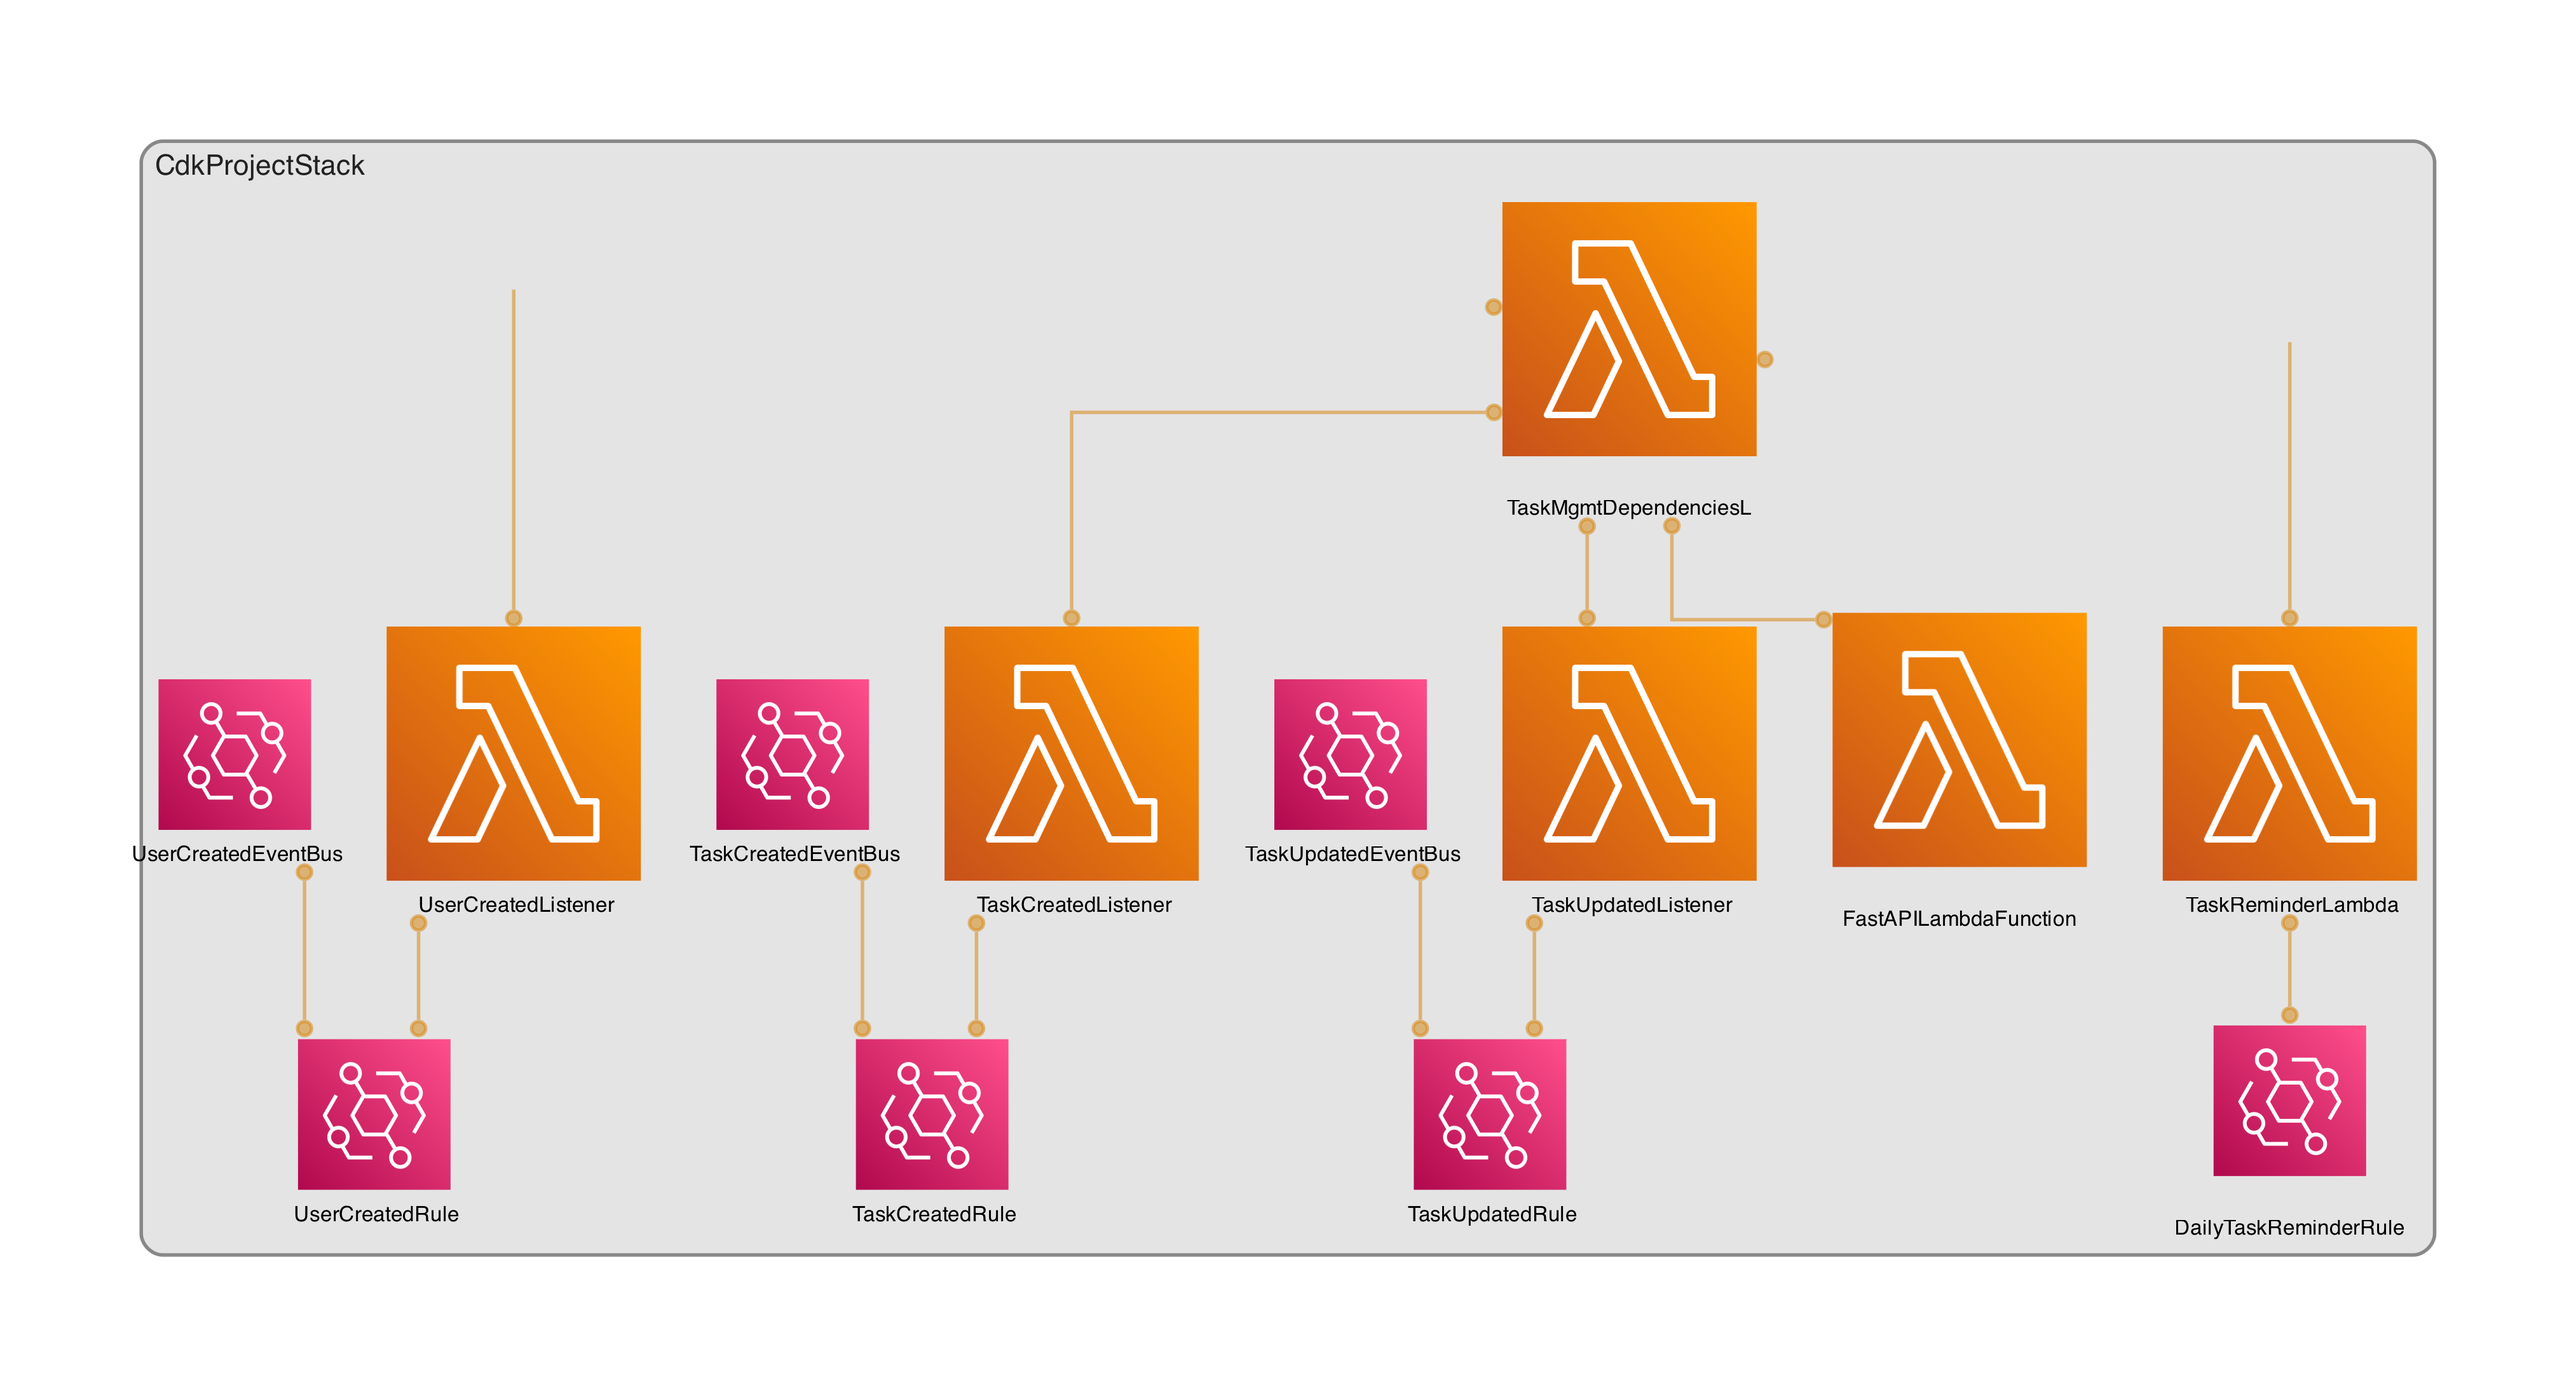
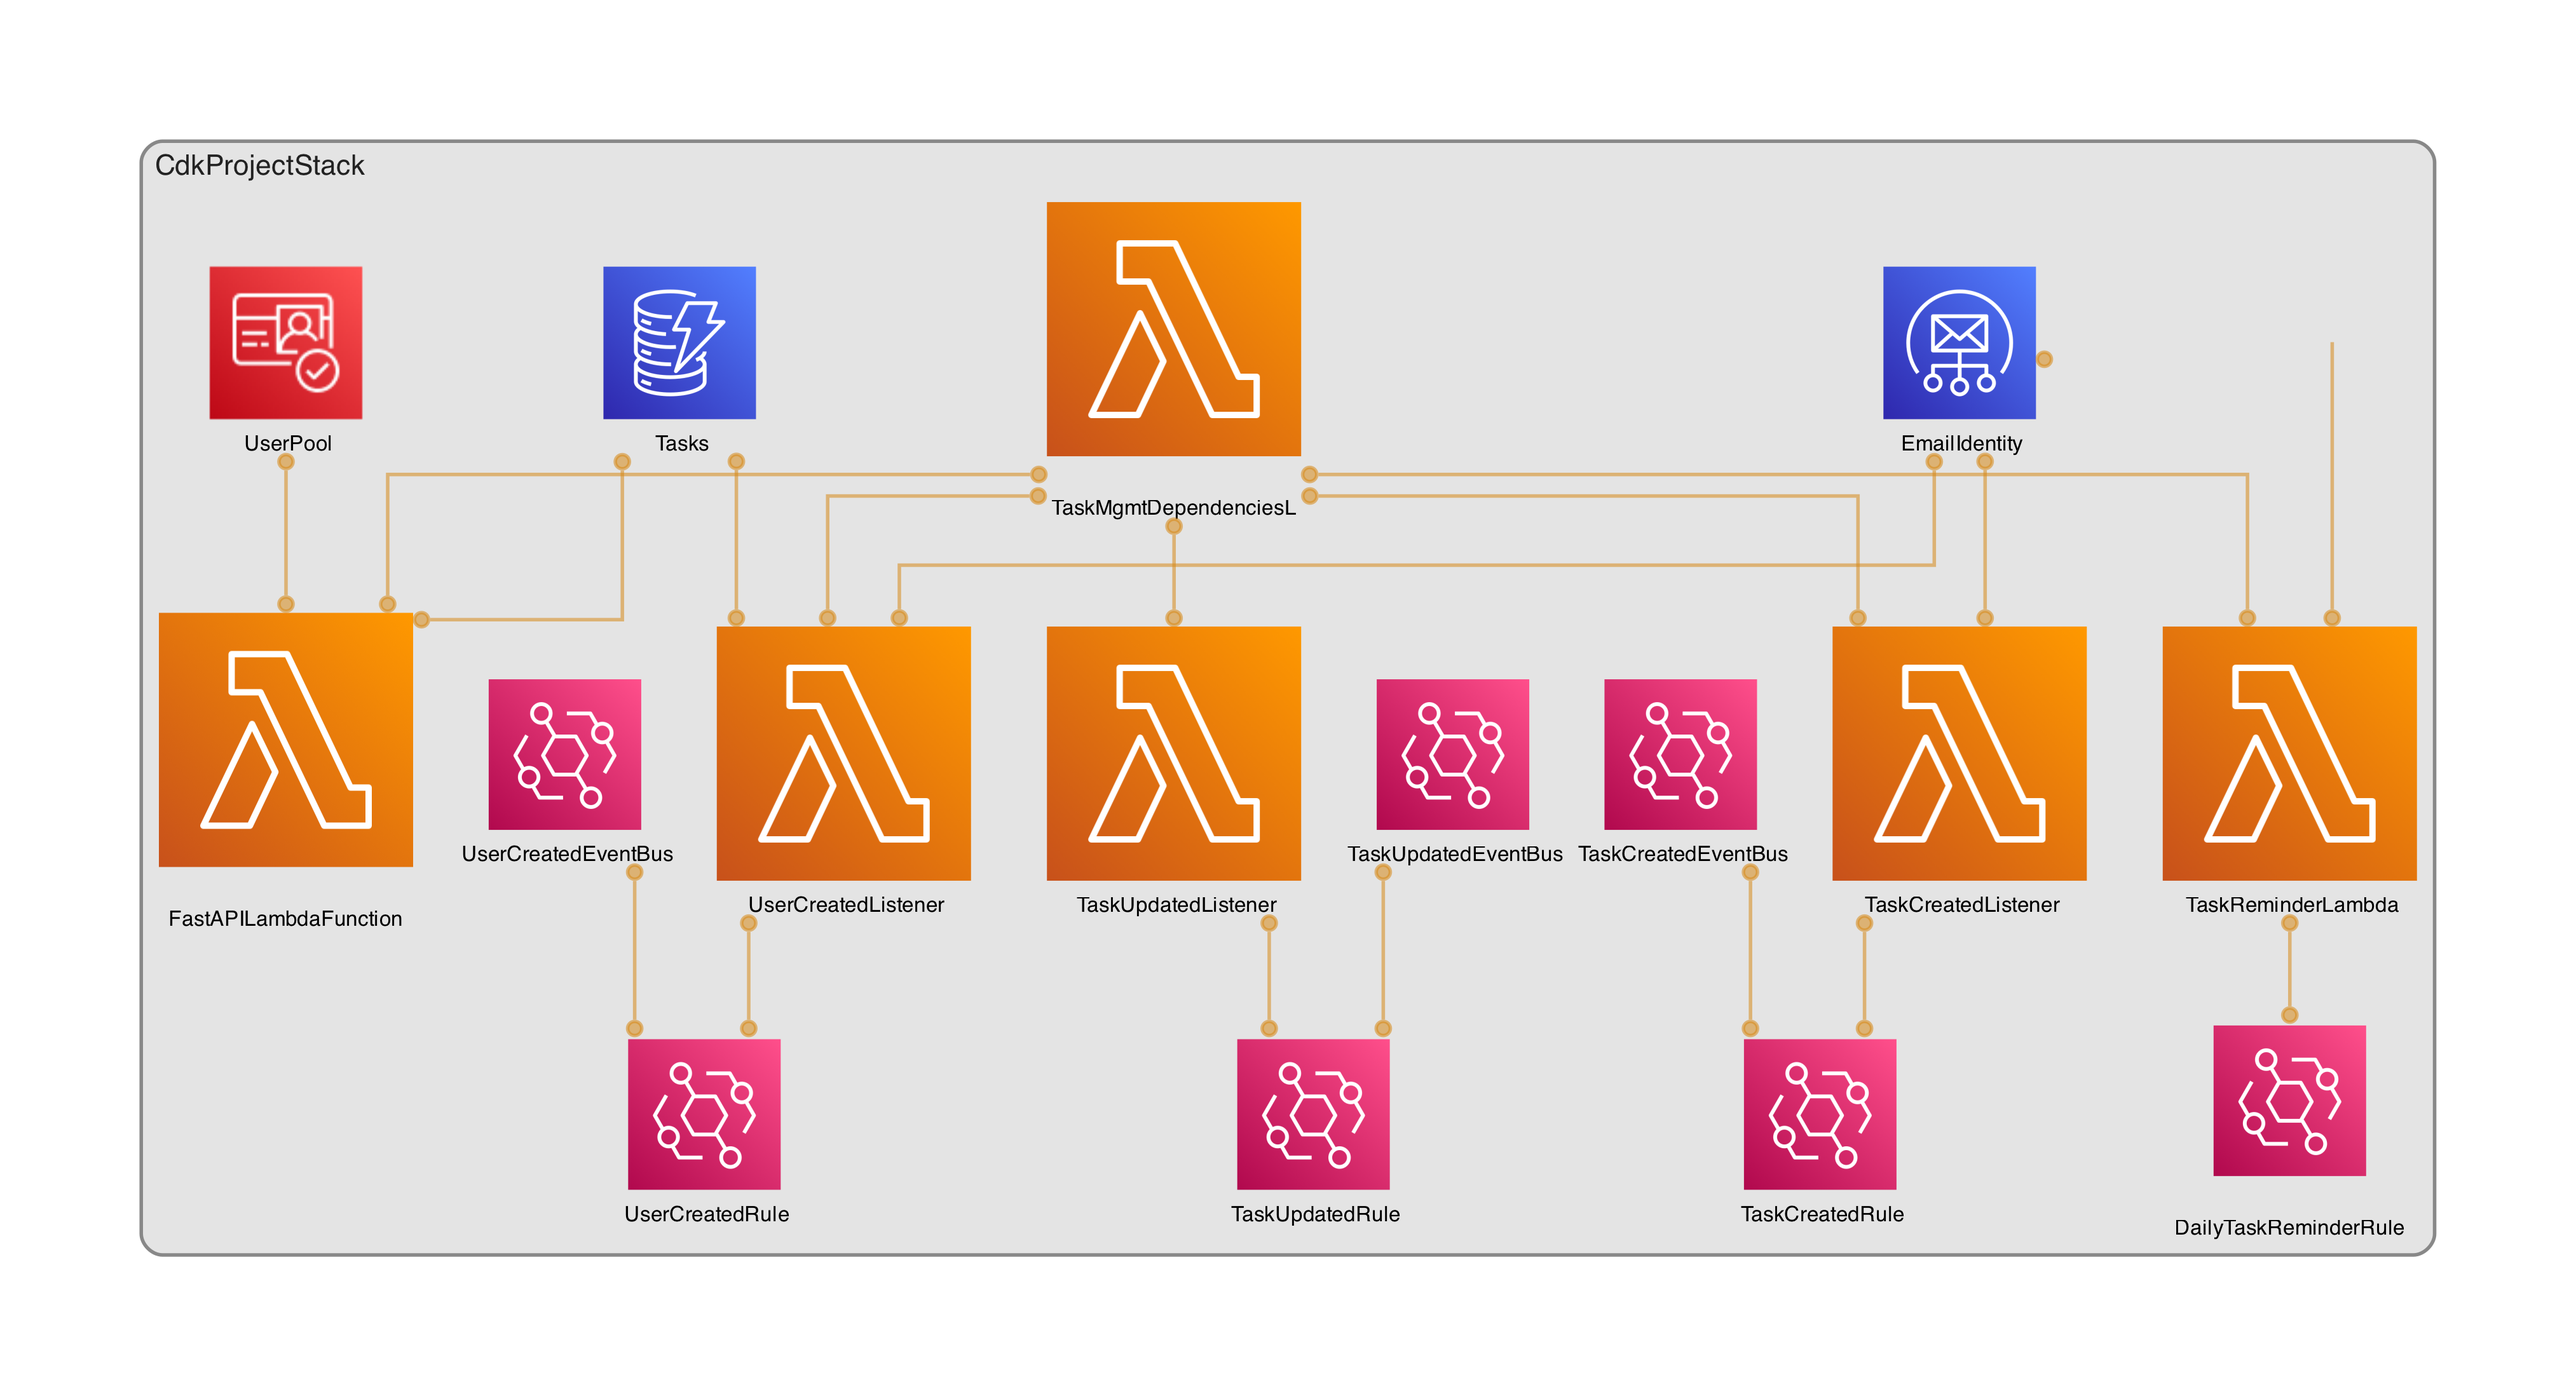
updated CDK successfully

diff --git a/cdk-project/cdk_project/cdk_project_stack copy.py b/cdk-project/cdk_project/cdk_project_stack copy.py
@@ -1,0 +1,188 @@
+from aws_cdk import (
+    Stack,
+    aws_lambda as _lambda,
+    aws_events as aws_events,
+    aws_events_targets as aws_events_targets,
+    aws_iam as aws_iam,
+    aws_dynamodb as aws_dynamodb,
+    aws_cognito as aws_cognito,
+    aws_ses as aws_ses,
+)
+from constructs import Construct
+from utils import load_env
+
+
+class CdkProjectStack(Stack):
+    def __init__(self, scope: Construct, construct_id: str, **kwargs) -> None:
+        super().__init__(scope, construct_id, **kwargs)
+
+        # Load environment variables
+        project_environment = load_env()
+
+        # Lambda Layer
+        self.layer = _lambda.LayerVersion(
+            self,
+            "TaskMgmtDependenciesLayer",
+            code=_lambda.Code.from_asset("../lambda_layer/lambda_layer.zip"),
+            compatible_runtimes=[_lambda.Runtime.PYTHON_3_12],
+            description="Shared dependencies for FastAPI and AWS SDK",
+        )
+
+        # Existing IAM Role
+        existing_role = aws_iam.Role.from_role_arn(
+            self,
+            "taskMgmtApp",
+            "arn:aws:iam::774305574116:role/taskMgmtApp",
+            mutable=False,
+        )
+
+        # DynamoDB Table for Tasks
+        self.task_table = aws_dynamodb.Table(
+            self,
+            "Tasks",
+            partition_key=aws_dynamodb.Attribute(name="task_id", type=aws_dynamodb.AttributeType.STRING),
+            billing_mode=aws_dynamodb.BillingMode.PAY_PER_REQUEST,
+        )
+
+        # Cognito User Pool for Authentication
+        self.user_pool = aws_cognito.UserPool(
+            self,
+            "UserPool",
+            self_sign_up_enabled=True,
+            auto_verify=aws_cognito.AutoVerifiedAttrs(email=True),
+            sign_in_aliases=aws_cognito.SignInAliases(email=True),
+        )
+
+        # SES Email Identity
+        self.email_identity = aws_ses.EmailIdentity(
+            self,
+            "EmailIdentity",
+            identity=aws_ses.Identity.email("zaidanali028@gmail.com"),
+        )
+
+        # Main FastAPI Lambda Function
+        self.fastapi_lambda = _lambda.Function(
+            self,
+            "FastAPILambdaFunction",
+            runtime=_lambda.Runtime.PYTHON_3_12,
+            handler="app.main.handler",
+            code=_lambda.Code.from_asset("../app/"),
+            layers=[self.layer],
+            role=existing_role,
+            environment={
+                **project_environment,
+                "USER_POOL_ID": self.user_pool.user_pool_id,
+                "TASK_TABLE_NAME": self.task_table.table_name,
+            },
+        )
+
+        # Grant permissions to FastAPI Lambda
+        self.task_table.grant_read_write_data(self.fastapi_lambda)
+        self.user_pool.grant(
+            self.fastapi_lambda,
+            "cognito-idp:AdminCreateUser",
+            "cognito-idp:AdminSetUserPassword",
+        )
+
+        # EventBuses
+        self.task_created_event_bus = aws_events.EventBus(
+            self, "TaskCreatedEventBus", event_bus_name="TaskCreatedEventBus"
+        )
+        self.task_updated_event_bus = aws_events.EventBus(
+            self, "TaskUpdatedEventBus", event_bus_name="TaskUpdatedEventBus"
+        )
+        self.user_created_event_bus = aws_events.EventBus(
+            self, "UserCreatedEventBus", event_bus_name="UserCreatedEventBus"
+        )
+
+        # Listener for User Created Event
+        user_created_listener = _lambda.Function(
+            self,
+            "UserCreatedListener",
+            runtime=_lambda.Runtime.PYTHON_3_12,
+            handler="handler.handler",
+            code=_lambda.Code.from_asset("../listeners/user_created"),
+            layers=[self.layer],
+            role=existing_role,
+            environment={
+                "SES_EMAIL_IDENTITY": self.email_identity.email_identity_name,
+                "TASK_TABLE_NAME": self.task_table.table_name,
+            },
+        )
+        aws_events.Rule(
+            self,
+            "UserCreatedRule",
+            event_bus=self.user_created_event_bus,
+            event_pattern={
+                "source": ["app.taskmgmt"],
+                "detail_type": ["UserCreated"],
+            },
+            targets=[aws_events_targets.LambdaFunction(user_created_listener)],
+        )
+
+        # Listener for Task Created Event
+        task_created_listener = _lambda.Function(
+            self,
+            "TaskCreatedListener",
+            runtime=_lambda.Runtime.PYTHON_3_12,
+            handler="handler.handler",
+            code=_lambda.Code.from_asset("../listeners/task_created"),
+            layers=[self.layer],
+            role=existing_role,
+            environment={
+                "SES_EMAIL_IDENTITY": self.email_identity.email_identity_name,
+            },
+        )
+        aws_events.Rule(
+            self,
+            "TaskCreatedRule",
+            event_bus=self.task_created_event_bus,
+            event_pattern={
+                "source": ["app.taskmgmt"],
+                "detail_type": ["TaskCreated"],
+            },
+            targets=[aws_events_targets.LambdaFunction(task_created_listener)],
+        )
+
+        # Listener for Task Updated Event
+        task_updated_listener = _lambda.Function(
+            self,
+            "TaskUpdatedListener",
+            runtime=_lambda.Runtime.PYTHON_3_12,
+            handler="handler.handler",
+            code=_lambda.Code.from_asset("../listeners/task_updated"),
+            layers=[self.layer],
+            role=existing_role,
+        )
+        aws_events.Rule(
+            self,
+            "TaskUpdatedRule",
+            event_bus=self.task_updated_event_bus,
+            event_pattern={
+                "source": ["app.taskmgmt"],
+                "detail_type": ["TaskUpdated"],
+            },
+            targets=[aws_events_targets.LambdaFunction(task_updated_listener)],
+        )
+
+        # Reminder Lambda Function for Task Deadlines
+        reminder_lambda = _lambda.Function(
+            self,
+            "TaskReminderLambda",
+            runtime=_lambda.Runtime.PYTHON_3_12,
+            handler="handler.handler",
+            code=_lambda.Code.from_asset("../listeners/task_due"),
+            layers=[self.layer],
+            role=existing_role,
+            environment={
+                "SES_EMAIL_IDENTITY": self.email_identity.email_identity_name,
+            },
+        )
+
+        # EventBridge Rule to schedule the Reminder Lambda daily at 8 AM UTC
+        aws_events.Rule(
+            self,
+            "DailyTaskReminderRule",
+            schedule=aws_events.Schedule.cron(minute="0", hour="8"),
+            targets=[aws_events_targets.LambdaFunction(reminder_lambda)],
+        )

diff --git a/cdk-project/cdk_project/dgm-cdk_project_stack.py b/cdk-project/cdk_project/dgm-cdk_project_stack.py
@@ -1,17 +1,23 @@
 from aws_cdk import (
-    aws_lambda as _lambda,
-    aws_iam,
     Stack,
-    aws_events_targets,
-    aws_events
+    aws_lambda as _lambda,
+    aws_events as aws_events,
+    aws_events_targets as aws_events_targets,
+    aws_iam as aws_iam,
+    aws_dynamodb as aws_dynamodb,
+    aws_cognito as aws_cognito,
+    aws_ses as aws_ses,
 )
 from constructs import Construct
 from utils import load_env
 
-class CdkProjectStack(Stack):
 
+class CdkProjectStack(Stack):
     def __init__(self, scope: Construct, construct_id: str, **kwargs) -> None:
         super().__init__(scope, construct_id, **kwargs)
+
+        # Load environment variables
+        project_environment = load_env()
 
         # Lambda Layer
         self.layer = _lambda.LayerVersion(
@@ -19,7 +25,7 @@ class CdkProjectStack(Stack):
             "TaskMgmtDependenciesLayer",
             code=_lambda.Code.from_asset("../lambda_layer/lambda_layer.zip"),
             compatible_runtimes=[_lambda.Runtime.PYTHON_3_12],
-            description="Shared dependencies for FastAPI and AWS SDK"
+            description="Shared dependencies for FastAPI and AWS SDK",
         )
 
         # Existing IAM Role
@@ -27,7 +33,35 @@ class CdkProjectStack(Stack):
             self,
             "taskMgmtApp",
             "arn:aws:iam::774305574116:role/taskMgmtApp",
-            mutable=False
+            mutable=False,
+        )
+
+     
+
+     
+
+        # Main FastAPI Lambda Function
+        self.fastapi_lambda = _lambda.Function(
+            self,
+            "FastAPILambdaFunction",
+            runtime=_lambda.Runtime.PYTHON_3_12,
+            handler="app.main.handler",
+            code=_lambda.Code.from_asset("../app/"),
+            layers=[self.layer],
+            role=existing_role,
+            environment={
+                **project_environment,
+                "USER_POOL_ID": self.user_pool.user_pool_id,
+                "TASK_TABLE_NAME": self.task_table.table_name,
+            },
+        )
+
+        # Grant permissions to FastAPI Lambda
+        self.task_table.grant_read_write_data(self.fastapi_lambda)
+        self.user_pool.grant(
+            self.fastapi_lambda,
+            "cognito-idp:AdminCreateUser",
+            "cognito-idp:AdminSetUserPassword",
         )
 
         # EventBuses
@@ -50,6 +84,7 @@ class CdkProjectStack(Stack):
             code=_lambda.Code.from_asset("../listeners/user_created"),
             layers=[self.layer],
             role=existing_role,
+           
         )
         aws_events.Rule(
             self,
@@ -71,6 +106,7 @@ class CdkProjectStack(Stack):
             code=_lambda.Code.from_asset("../listeners/task_created"),
             layers=[self.layer],
             role=existing_role,
+         
         )
         aws_events.Rule(
             self,
@@ -104,22 +140,6 @@ class CdkProjectStack(Stack):
             targets=[aws_events_targets.LambdaFunction(task_updated_listener)],
         )
 
-        # Main FastAPI Lambda Function
-        project_environment = load_env()
-        self.fastapi_lambda = _lambda.Function(
-            self,
-            "FastAPILambdaFunction",
-            runtime=_lambda.Runtime.PYTHON_3_12,
-            handler="app.main.handler",
-            code=_lambda.Code.from_asset("../app/"),
-            layers=[self.layer],
-            role=existing_role,
-            environment=project_environment
-        )
-
-
-# UPDATED: Added EventBridge Rules for Task Reminders
-
         # Reminder Lambda Function for Task Deadlines
         reminder_lambda = _lambda.Function(
             self,
@@ -129,7 +149,7 @@ class CdkProjectStack(Stack):
             code=_lambda.Code.from_asset("../listeners/task_due"),
             layers=[self.layer],
             role=existing_role,
-            environment=project_environment
+           
         )
 
         # EventBridge Rule to schedule the Reminder Lambda daily at 8 AM UTC
@@ -137,5 +157,27 @@ class CdkProjectStack(Stack):
             self,
             "DailyTaskReminderRule",
             schedule=aws_events.Schedule.cron(minute="0", hour="8"),
-            targets=[aws_events_targets.LambdaFunction(reminder_lambda)]
+            targets=[aws_events_targets.LambdaFunction(reminder_lambda)],
         )
+        
+        
+           # DynamoDB Table for Tasks
+        self.task_table = aws_dynamodb.Table(
+            self,
+            "Tasks",
+            partition_key=aws_dynamodb.Attribute(name="task_id", type=aws_dynamodb.AttributeType.STRING),
+            billing_mode=aws_dynamodb.BillingMode.PAY_PER_REQUEST,
+        ),
+           # SES Email Identity
+        self.email_identity = aws_ses.EmailIdentity(
+            self,
+            "EmailIdentity",
+            identity=aws_ses.Identity.email("zaidanali028@gmail.com"),
+        )
+        
+
+        # Cognito User Pool for Authentication
+        self.user_pool = aws_cognito.UserPool(
+            self,
+            "UserPool",
+           )

diff --git a/README.md b/README.md
@@ -56,7 +56,7 @@ The application implements a serverless microservices architecture leveraging va
 - Python 3.9+
 - AWS CDK v2
 - boto3 for AWS SDK
-- pytest for testing
+
 - black for code formatting
 
 ## Features Deep Dive
@@ -147,7 +147,7 @@ Detailed breakdown of the project structure:
 ├── lambda_layer/            # Lambda layer dependencies
 ├── tests/
 │   ├── unit/               # Unit tests
-│   └── integration/        # Integration tests
+│  
 └── requirements.txt        # Project dependencies
 ```
 
